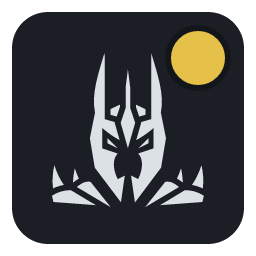
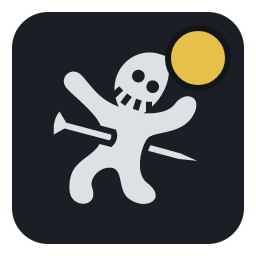
Every character gets a token of its own
The composer guesses a body in tiers, and every tier below the discipline
one hands a whole BUCKET one picture: a class gives its shelf a single
body, `boss` gives every classless boss a single body, `kind` gives every
demon a single body. That is right for the generic template at the head of
each bucket and wrong for everyone else standing in it.

51 of the 107 blueprints resolved to 15 pictures. The seven sin generals
were one token between them. Rowan, both Forsworn, the Knight in Grey and
both Greywatch bodies were another -- in a line whose whole thesis is that
those knights are not each other, and whose blueprints already say so in
prose ("the silhouettes must not converge").

Two separate failures, since a token can collide in two ways: the same
slug (the same picture), and the same `sprite` path -- eight blueprints
literally loading one file, which no difference in slug can rescue,
because the composer writes one file per path and lets the rest ride
along. That second one is how the Trapper came to wear the Bandit's art.

So: a bucket's silhouette stays the property of the generic body at its
head -- character_knight keeps the knight banner, character_bandit the
rank swordman, character_demon_grunt the daemon skull -- and every other
occupant is named out of it by a CHARACTER_SILHOUETTE tier above every
guess. The Trapper wears the Bolas that IS its job, each general reads as
its sin, and the demon ladder (bomblet, champion, lord) is finally visible
[…]

Changed region(s): [[0.1875, 0.1875, 0.8125, 0.8125]]

diff --git a/docs/art-assets.md b/docs/art-assets.md
@@ -28,13 +28,15 @@ work below is still owed. See [Composed tokens](#composed-tokens--the-budget-sta
 `char-compose assets` fills the gaps and skips any id that already has real art, so a delivered board
 sprite (a **Spine rig**) dropped in later transparently replaces its token. Each of the 37 **discipline exemplars** now carries its
 own sprite path and its own silhouette (a `DISCIPLINE_SILHOUETTE` tier in `tools/char_compose.lua`, keyed
-off the discipline's `exemplar`), so a Necromancer no longer wears the plain mage token — see
+off the discipline's `exemplar`), so a Necromancer no longer wears the plain mage token; and every
+remaining body is named out of its bucket by a `CHARACTER_SILHOUETTE` tier above it, so that **no two
+characters share a token** (the sin generals were one picture between the seven of them) — see
 [Composed tokens](#composed-tokens--the-budget-stand-in-same-philosophy-as-items).
 
 | Bucket | Have | Needed | Rendered at | Source |
 |---|---|---|---|---|
 | `items/` | 583 | 619 | 64px cell | **composed from tags** — [icon system](#the-permanent-icon-system--compose-dont-commission) ✅ |
-| `chars/` | 94 | 94 | ~52px on a 60px tile | **Spine rigs (commission)** — composed tokens stand in until each rig lands; see [Characters](#characters) |
+| `chars/` | 107 | 107 | ~52px on a 60px tile | **Spine rigs (commission)** — composed tokens stand in until each rig lands; see [Characters](#characters) |
 | ~~`hazards/`~~ | — | — | 64px tile, under units | **no art, ever** — [drawn by a shader](#hazards-are-not-icons) ✅ |
 | `portraits/` | 0 | 17 | 470px tall standing figure | **commission** |
 | `vendors/` | 0 | 8 | shop panel | **commission** |
@@ -162,16 +164,30 @@ is a function of its `fire`/`ice` tag.
 
 | Layer | Channel | Source |
 |---|---|---|
-| **Base** silhouette | a **discipline** match (the exemplar), then a creature/name match, then a **`kind`** bucket | game-icons.net (reuse, not commission) |
+| **Base** silhouette | a **character** match (by name), then a **discipline** match (the exemplar), then a creature/name match, then a **`kind`** bucket | game-icons.net (reuse, not commission) |
 | **Tint** | element (elementals), else kind | — |
 | **Frame** | `class` colour (the vendor shelf), gold + thicker for a boss | shared with the item composer |
 | **Badge** | a gold disc for a `boss`/general | — |
 
-A classless boss — the seven sin generals are `boss = true` with no `class` — would otherwise be a rank
-swordman told apart only by its frame, so it is lifted to an **overlord silhouette** (a horned helm). A boss
-that *has* a class keeps its role look (priest-boss Amana still reads priest) and a boss that is a demon or
-beast keeps its creature; only the generic humanoid is lifted. The guessing is regression-guarded headlessly
-by `tests/char_compose_spec.lua` — pure logic, no render — the way the item pipeline guards its family picks.
+A classless boss — `boss = true` with no `class` — would otherwise be a rank swordman told apart only by
+its badge, so it is lifted to an **overlord silhouette** (a horned helm). A boss that *has* a class keeps
+its role look and a boss that is a demon or beast keeps its creature; only the generic humanoid is lifted.
+
+**Every tier below the character one hands a whole bucket a single picture**, and that is the point of the
+`CHARACTER_SILHOUETTE` tier on top of them. A class gives its whole shelf one body, `boss` gives every
+classless boss one body, `kind` gives every demon one body — correct for the *generic template* at the head
+of each bucket, wrong for everyone else in it. Left to the guesses alone, **51 of the 107 blueprints
+resolved to just 15 pictures**: the seven sin generals were one token, and Rowan, the Forsworn Captain and
+the Road-Knight were another. So a bucket's silhouette stays the property of the generic body at its head
+(`character_knight` keeps the knight banner, `character_bandit` the rank swordman, `character_demon_grunt`
+the daemon skull) and every other occupant is named out of it — one line, never art.
+
+Two invariants in `tests/char_compose_spec.lua` hold it: **no two blueprints resolve to the same
+silhouette**, and **no two name the same `sprite` path** (the composer writes one file per distinct path and
+lets later blueprints ride along, so a shared path is invisible on the board however the slugs differ — the
+Trapper wore the Bandit's art that way). The only exceptions are the deliberate aliases: `saber_bout` *is*
+Saber. A new blueprint silently joins whichever bucket it derives into and re-collides, which is exactly
+what these catch. The rest of the guessing is regression-guarded the same way — pure logic, no render.
 
 `kind` (humanoid · beast · elemental · construct · demon · undead · object) is the character analog to an
 item's **family** — the one field that decides the silhouette. It is *guessed* from the blueprint (a
